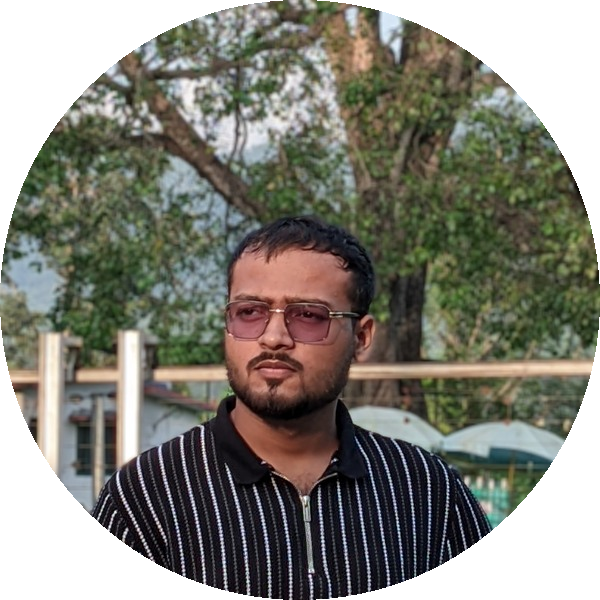
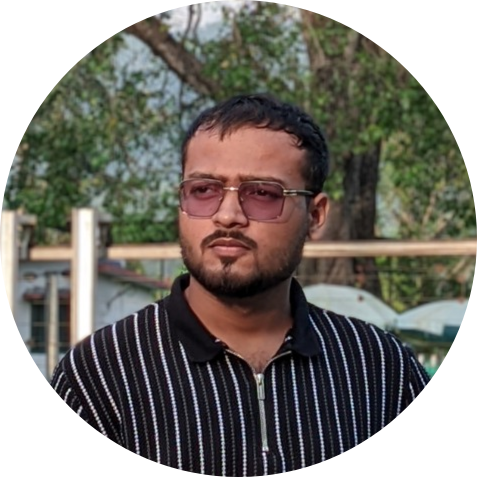
feat: use optimized circular headshot for Yahya across website and email assets

diff --git a/ShareOnlyForSEO/index.html b/ShareOnlyForSEO/index.html
@@ -98,7 +98,7 @@
             "@type": "Person",
             "name": "Yahya Ali Ahmad",
             "jobTitle": "Co-Founder & Tech Lead",
-            "image": "https://www.northexmarketing.com/assets/founders/yahya.jpeg"
+            "image": "https://www.northexmarketing.com/assets/founders/yahya.png"
           }
         ],
         "description": "Northex helps ambitious businesses reach and convert high-value customers through targeted Meta and Google ad campaigns with transparent weekly performance reporting.",
@@ -644,7 +644,7 @@
           <div class="founder-card">
             <div class="founder-avatar-wrap">
               <div class="founder-avatar-ring">
-                <img src="assets/founders/yahya.jpeg" alt="Yahya Ali Ahmad - Co-Founder &amp; Tech Lead" class="founder-avatar-img">
+                <img src="assets/founders/yahya.png" alt="Yahya Ali Ahmad - Co-Founder &amp; Tech Lead" class="founder-avatar-img">
               </div>
               <span class="founder-pulse-dot" title="Active Partner"></span>
             </div>
@@ -810,7 +810,7 @@
             <div class="founders-contact-cluster">
               <div class="cluster-avatars">
                 <img src="assets/founders/sameer.jpeg" alt="Sam Chaudhary - Co-Founder" class="cluster-img" title="Sam Chaudhary - Co-Founder">
-                <img src="assets/founders/yahya.jpeg" alt="Yahya Ali Ahmad - Co-Founder" class="cluster-img" title="Yahya Ali Ahmad - Co-Founder">
+                <img src="assets/founders/yahya.png" alt="Yahya Ali Ahmad - Co-Founder" class="cluster-img" title="Yahya Ali Ahmad - Co-Founder">
                 <img src="assets/founders/founder-placeholder.svg" alt="Co-Founder" class="cluster-img" title="Co-Founder">
               </div>
               <div class="cluster-info">

diff --git a/index.html b/index.html
@@ -98,7 +98,7 @@
             "@type": "Person",
             "name": "Yahya Ali Ahmad",
             "jobTitle": "Co-Founder & Tech Lead",
-            "image": "https://www.northexmarketing.com/assets/founders/yahya.jpeg"
+            "image": "https://www.northexmarketing.com/assets/founders/yahya.png"
           }
         ],
         "description": "Northex helps ambitious businesses reach and convert high-value customers through targeted Meta and Google ad campaigns with transparent weekly performance reporting.",
@@ -644,7 +644,7 @@
           <div class="founder-card">
             <div class="founder-avatar-wrap">
               <div class="founder-avatar-ring">
-                <img src="assets/founders/yahya.jpeg" alt="Yahya Ali Ahmad - Co-Founder &amp; Tech Lead" class="founder-avatar-img">
+                <img src="assets/founders/yahya.png" alt="Yahya Ali Ahmad - Co-Founder &amp; Tech Lead" class="founder-avatar-img">
               </div>
               <span class="founder-pulse-dot" title="Active Partner"></span>
             </div>
@@ -810,7 +810,7 @@
             <div class="founders-contact-cluster">
               <div class="cluster-avatars">
                 <img src="assets/founders/sameer.jpeg" alt="Sam Chaudhary - Co-Founder" class="cluster-img" title="Sam Chaudhary - Co-Founder">
-                <img src="assets/founders/yahya.jpeg" alt="Yahya Ali Ahmad - Co-Founder" class="cluster-img" title="Yahya Ali Ahmad - Co-Founder">
+                <img src="assets/founders/yahya.png" alt="Yahya Ali Ahmad - Co-Founder" class="cluster-img" title="Yahya Ali Ahmad - Co-Founder">
                 <img src="assets/founders/founder-placeholder.svg" alt="Co-Founder" class="cluster-img" title="Co-Founder">
               </div>
               <div class="cluster-info">
